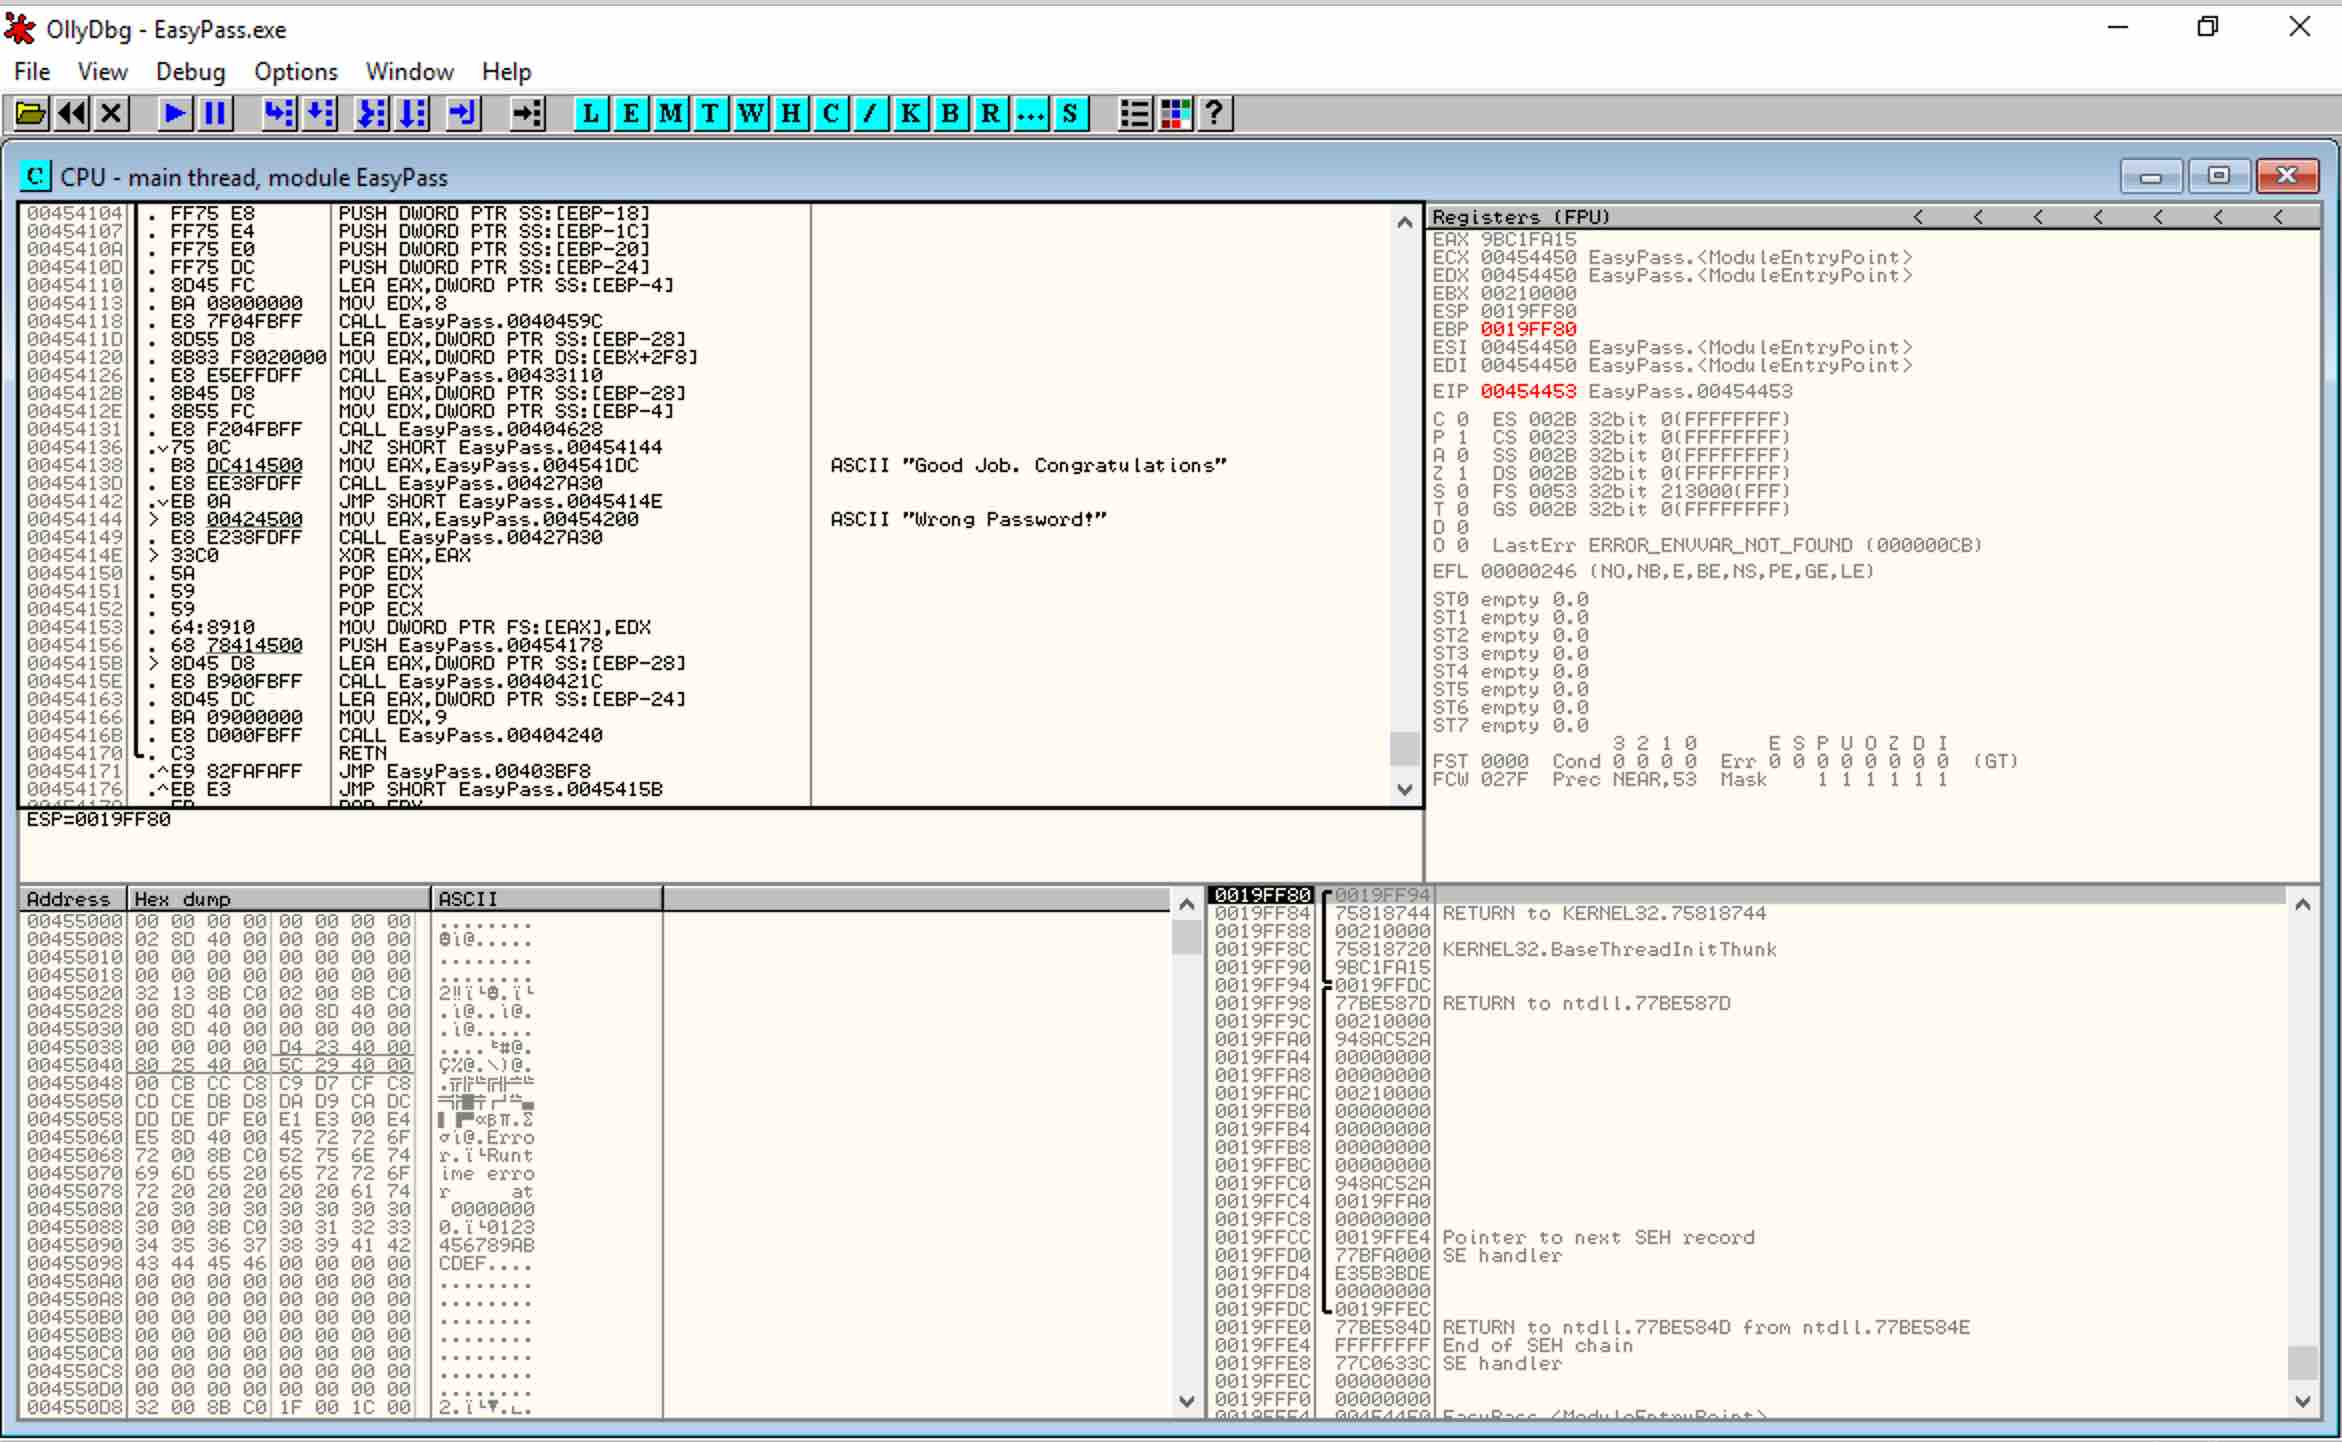
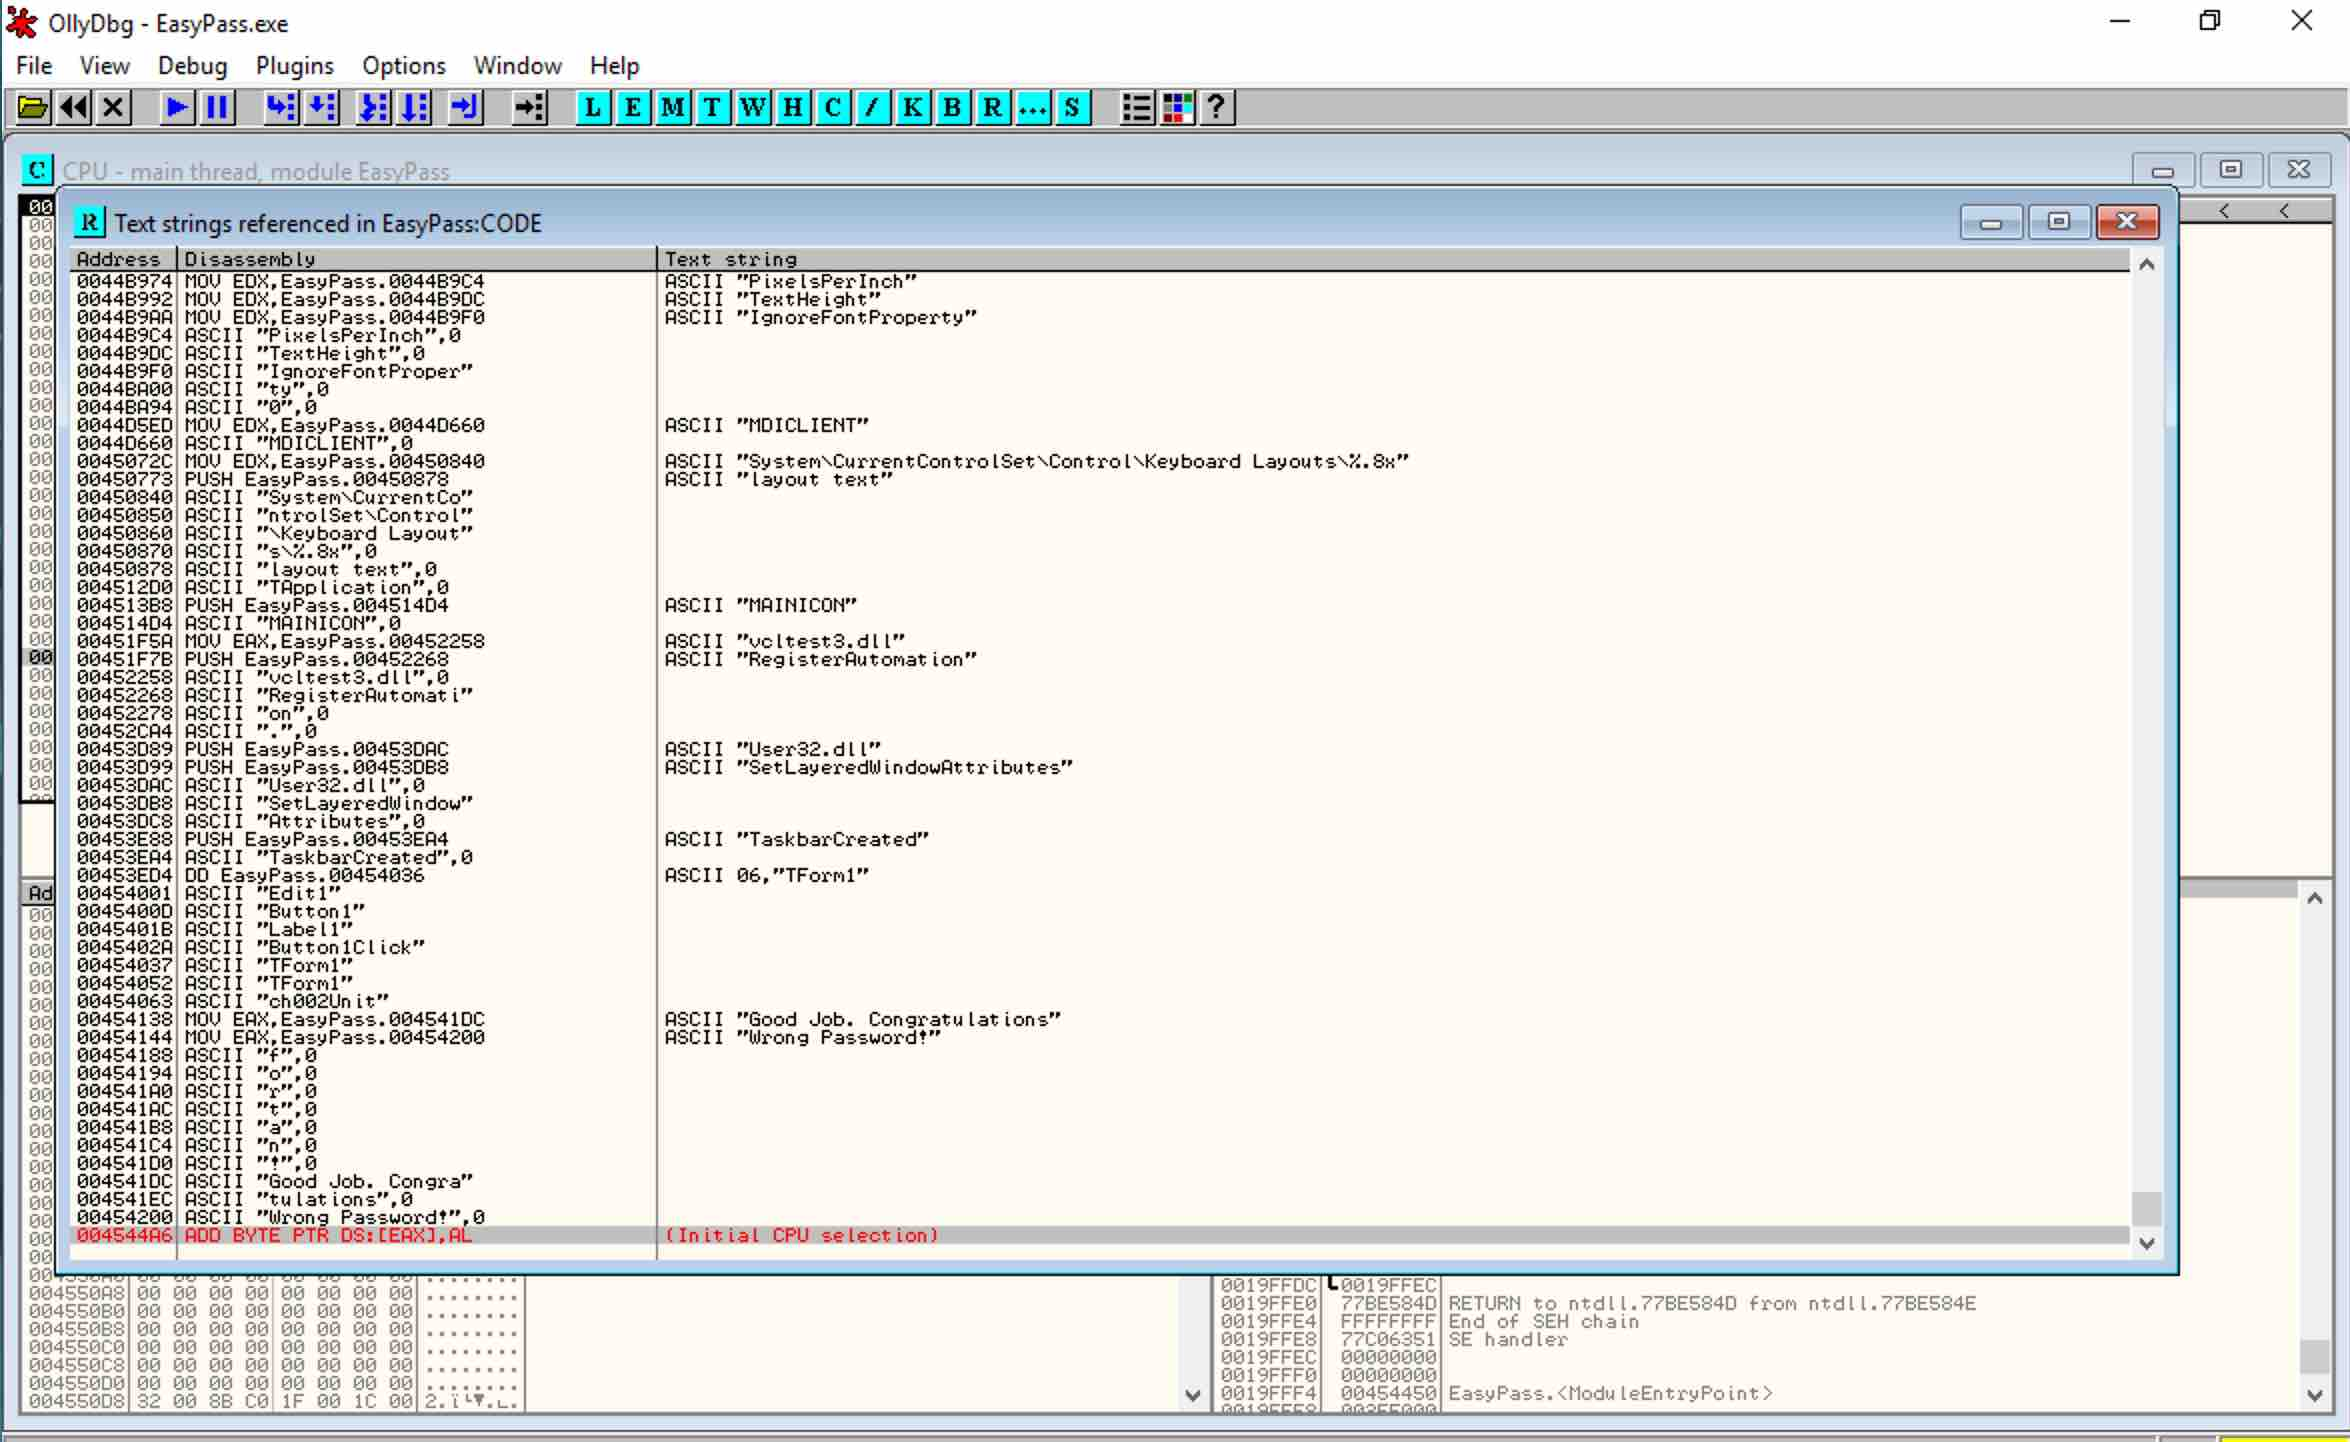
updated find easy pass write up with text search step in ollydbg

diff --git a/hackthebox/reversing/find-the-easy-pass/README.md b/hackthebox/reversing/find-the-easy-pass/README.md
@@ -71,13 +71,18 @@ passphrase..
 
 ### DEBUGGER
 
-Loading our executable into a debugger to see what we can discover. We
-located an interesting section of the program that references our strings
-"Good Job. Congratulations" and "Wrong Password!" at instructions `00454138`.
+Loading our executable into a debugger to see what we can discover. Let's
+search for the strings we found in our previous analysis..
 
 <img src="ollydbg_01.jpg" width=500px/>
 
-In particular, the `CALL EasyPass.00404628` at `00454131` followed by
+Here we see references to the strings "Good Job. Congratulations" and
+"Wrong Password!" at instructions `00454138` and `00454144` respectively. Let's
+go take a look at that section of code..
+
+<img src="ollydbg_02.jpg" width=500px/>
+
+Of particular interest, the `CALL EasyPass.00404628` at `00454131` followed by
 `JNZ SHORT EasyPass.00454144` is interesting as the return value from the
 function call determines whether the program proceeds to to "Good Job" (if
 the return value is non-zero) or "Wrong Password" (for return value of zero).
@@ -87,7 +92,7 @@ Stepping into that function call, we eventually come across the code
 `CMP EAX, EDX` that does the compare of the string we provided (in register
 EAX) with the secret passphrase in register EDX).
 
-<img src="ollydbg_01.jpg" width=500px/>
+<img src="ollydbg_03.jpg" width=500px/>
 
 We can see from the register content of EDX that the string it is expecting
 is "fortran!".
